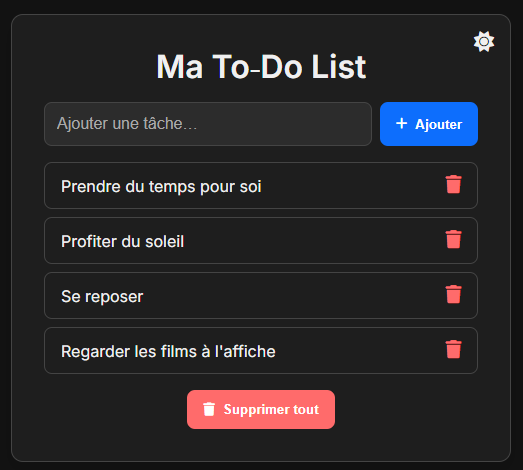
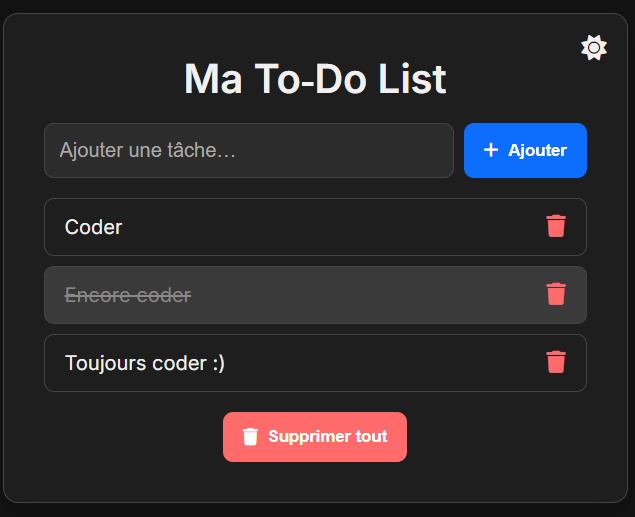
wip: need to find good colors to match portfolio's theme

diff --git a/portfolio/components/Projects.tsx b/portfolio/components/Projects.tsx
@@ -49,15 +49,15 @@ export default function Projects() {
     githubLink: string;
   }) {
     return (
-      <div className="bg-gray-800/50 backdrop-blur-sm rounded-lg overflow-hidden shadow-xl hover:shadow-2xl transition-all duration-300 flex flex-col h-full border border-gray-700/50">
+      <div className="bg-blue-500/80 backdrop-blur-sm rounded-lg overflow-hidden shadow-xl hover:shadow-2xl transition-all duration-300 flex flex-col h-full border border-gray-700/50 transform hover:-translate-y-0.5">
         <div className="p-6 border-b border-gray-700/50">
-          <h3 className="text-2xl font-bold mb-2 bg-linear-to-r from-blue-400 to-purple-500 bg-clip-text text-transparent">
+          <h3 className="text-2xl font-bold mb-2 text-white">
             {title}
           </h3>
         </div>
 
         <div className="p-6 grow">
-          <p className="text-gray-300 mb-6 leading-relaxed">
+          <p className="text-white mb-6 leading-relaxed">
             {description}
           </p>
 
@@ -73,13 +73,13 @@ export default function Projects() {
           </div>
         </div>
 
-        <div className="p-6 bg-gray-900/50 mt-auto border-t border-gray-700/50">
+        <div className="p-6 bg-neutral-900/50 mt-auto border-t border-gray-700/50">
           <div className="flex flex-wrap gap-3 justify-center sm:justify-start">
             <a
               href={demoLink}
               target="_blank"
               rel="noopener noreferrer"
-              className="inline-flex items-center bg-blue-600/90 hover:bg-blue-600 text-white px-4 py-2 rounded-lg transition-all duration-300 transform hover:-translate-y-0.5"
+              className="inline-flex items-center bg-blue-600/50 hover:bg-blue-600 text-white px-4 py-2 rounded-lg transition-all duration-300 transform hover:-translate-y-0.5"
             >
               Voir le projet
             </a>
@@ -87,7 +87,7 @@ export default function Projects() {
               href={githubLink}
               target="_blank"
               rel="noopener noreferrer"
-              className="inline-flex items-center bg-gray-700/90 hover:bg-gray-700 text-white px-4 py-2 rounded-lg transition-all duration-300 transform hover:-translate-y-0.5"
+              className="inline-flex items-center bg-neutral-800/90 hover:bg-gray-700 text-white px-4 py-2 rounded-lg transition-all duration-300 transform hover:-translate-y-0.5"
               >
                 Voir le code
               </a>
@@ -98,8 +98,8 @@ export default function Projects() {
     }
   return (
     <section className="container mx-auto px-4 py-16 w-100%">
-      <h2 className="text-4xl font-bold mb-12 bg-linear-to-r from-blue-400 to-purple-500 text-transparent bg-clip-text text-center">
-        Descriptions :
+      <h2 className="text-4xl font-bold mb-12 text-white text-center">
+        Descriptions
       </h2>
       <div className="grid grid-cols-1 md:grid-cols-2 xl:grid-cols-3 gap-8 auto-rows-fr">
         {projects.map((project, index) => (

diff --git a/portfolio/app/globals.css b/portfolio/app/globals.css
@@ -11,69 +11,4 @@
   --foreground: oklch(0.141 0.005 285.823);
   --card: oklch(1 0 0);
   --card-foreground: oklch(0.141 0.005 285.823);
-  /* --popover: oklch(1 0 0);
-  --popover-foreground: oklch(0.141 0.005 285.823);
-  --primary: oklch(0.21 0.006 285.885);
-  --primary-foreground: oklch(0.985 0 0);
-  --secondary: oklch(0.967 0.001 286.375);
-  --secondary-foreground: oklch(0.21 0.006 285.885);
-  --muted: oklch(0.967 0.001 286.375);
-  --muted-foreground: oklch(0.552 0.016 285.938);
-  --accent: oklch(0.967 0.001 286.375);
-  --accent-foreground: oklch(0.21 0.006 285.885);
-  --destructive: oklch(0.577 0.245 27.325); */
-  /* --border: oklch(0.92 0.004 286.32);
-  --input: oklch(0.92 0.004 286.32);
-  --ring: oklch(0.705 0.015 286.067);
-  --chart-1: oklch(0.646 0.222 41.116);
-  --chart-2: oklch(0.6 0.118 184.704);
-  --chart-3: oklch(0.398 0.07 227.392);
-  --chart-4: oklch(0.828 0.189 84.429);
-  --chart-5: oklch(0.769 0.188 70.08);
-  --sidebar: oklch(0.985 0 0);
-  --sidebar-foreground: oklch(0.141 0.005 285.823);
-  --sidebar-primary: oklch(0.21 0.006 285.885);
-  --sidebar-primary-foreground: oklch(0.985 0 0);
-  --sidebar-accent: oklch(0.967 0.001 286.375);
-  --sidebar-accent-foreground: oklch(0.21 0.006 285.885);
-  --sidebar-border: oklch(0.92 0.004 286.32);
-  --sidebar-ring: oklch(0.705 0.015 286.067); */
-}
-
-@theme inline {
-  --radius-sm: calc(var(--radius) - 4px);
-  --radius-md: calc(var(--radius) - 2px);
-  --radius-lg: var(--radius);
-  --radius-xl: calc(var(--radius) + 4px);
-  --color-background: var(--background);
-  --color-foreground: var(--foreground);
-  --color-card: var(--card);
-  --color-card-foreground: var(--card-foreground);
-  --color-popover: var(--popover);
-  --color-popover-foreground: var(--popover-foreground);
-  --color-primary: var(--primary);
-  --color-primary-foreground: var(--primary-foreground);
-  --color-secondary: var(--secondary);
-  --color-secondary-foreground: var(--secondary-foreground);
-  --color-muted: var(--muted);
-  --color-muted-foreground: var(--muted-foreground);
-  --color-accent: var(--accent);
-  --color-accent-foreground: var(--accent-foreground);
-  --color-destructive: var(--destructive);
-  --color-border: var(--border);
-  --color-input: var(--input);
-  --color-ring: var(--ring);
-  --color-chart-1: var(--chart-1);
-  --color-chart-2: var(--chart-2);
-  --color-chart-3: var(--chart-3);
-  --color-chart-4: var(--chart-4);
-  --color-chart-5: var(--chart-5);
-  --color-sidebar: var(--sidebar);
-  --color-sidebar-foreground: var(--sidebar-foreground);
-  --color-sidebar-primary: var(--sidebar-primary);
-  --color-sidebar-primary-foreground: var(--sidebar-primary-foreground);
-  --color-sidebar-accent: var(--sidebar-accent);
-  --color-sidebar-accent-foreground: var(--sidebar-accent-foreground);
-  --color-sidebar-border: var(--sidebar-border);
-  --color-sidebar-ring: var(--sidebar-ring);
 }

diff --git a/portfolio/app/portfolio/page.tsx b/portfolio/app/portfolio/page.tsx
@@ -5,8 +5,8 @@ export default function Porfolio() {
   return (
     <div className="flex min-h-screen items-center justify-center bg-linear-to-b from-gray-900 to-gray-700 text-white">
       <div className="flex flex-col items-center w-full gap-6 sm:items-start sm:text-left">
-        <h1 className="text-4xl font-bold mt-18 bg-linear-to-r from-blue-600 to-purple-600 inline-block mx-auto text-transparent bg-clip-text">
-          Mes projets :
+        <h1 className="text-4xl font-bold mt-18  inline-block mx-auto text-white">
+          Mes projets
         </h1>
         <p className="mx-auto text-lg text-center text-zinc-600 dark:text-zinc-400">
           Voici une preview de quelques-uns de mes projets récents. N'hésitez

diff --git a/portfolio/components/TechSkills.tsx b/portfolio/components/TechSkills.tsx
@@ -29,7 +29,7 @@ export default function TechSkills() {
         Compétences Techniques
       </h2>
       <div className="grid grid-cols-1 md:grid-cols-3 gap-8">
-        <div className="bg-linear-to-b from-blue-600 to-blue-200 text-white p-6 rounded-lg">
+        <div className="bg-linear-to-b from-blue-700 to-blue-400 text-white p-6 rounded-lg">
           <h3 className="text-xl font-bold mb-4">Front-end</h3>
           <ul className="space-y-2">
             <li className="flex items-center gap-2">
